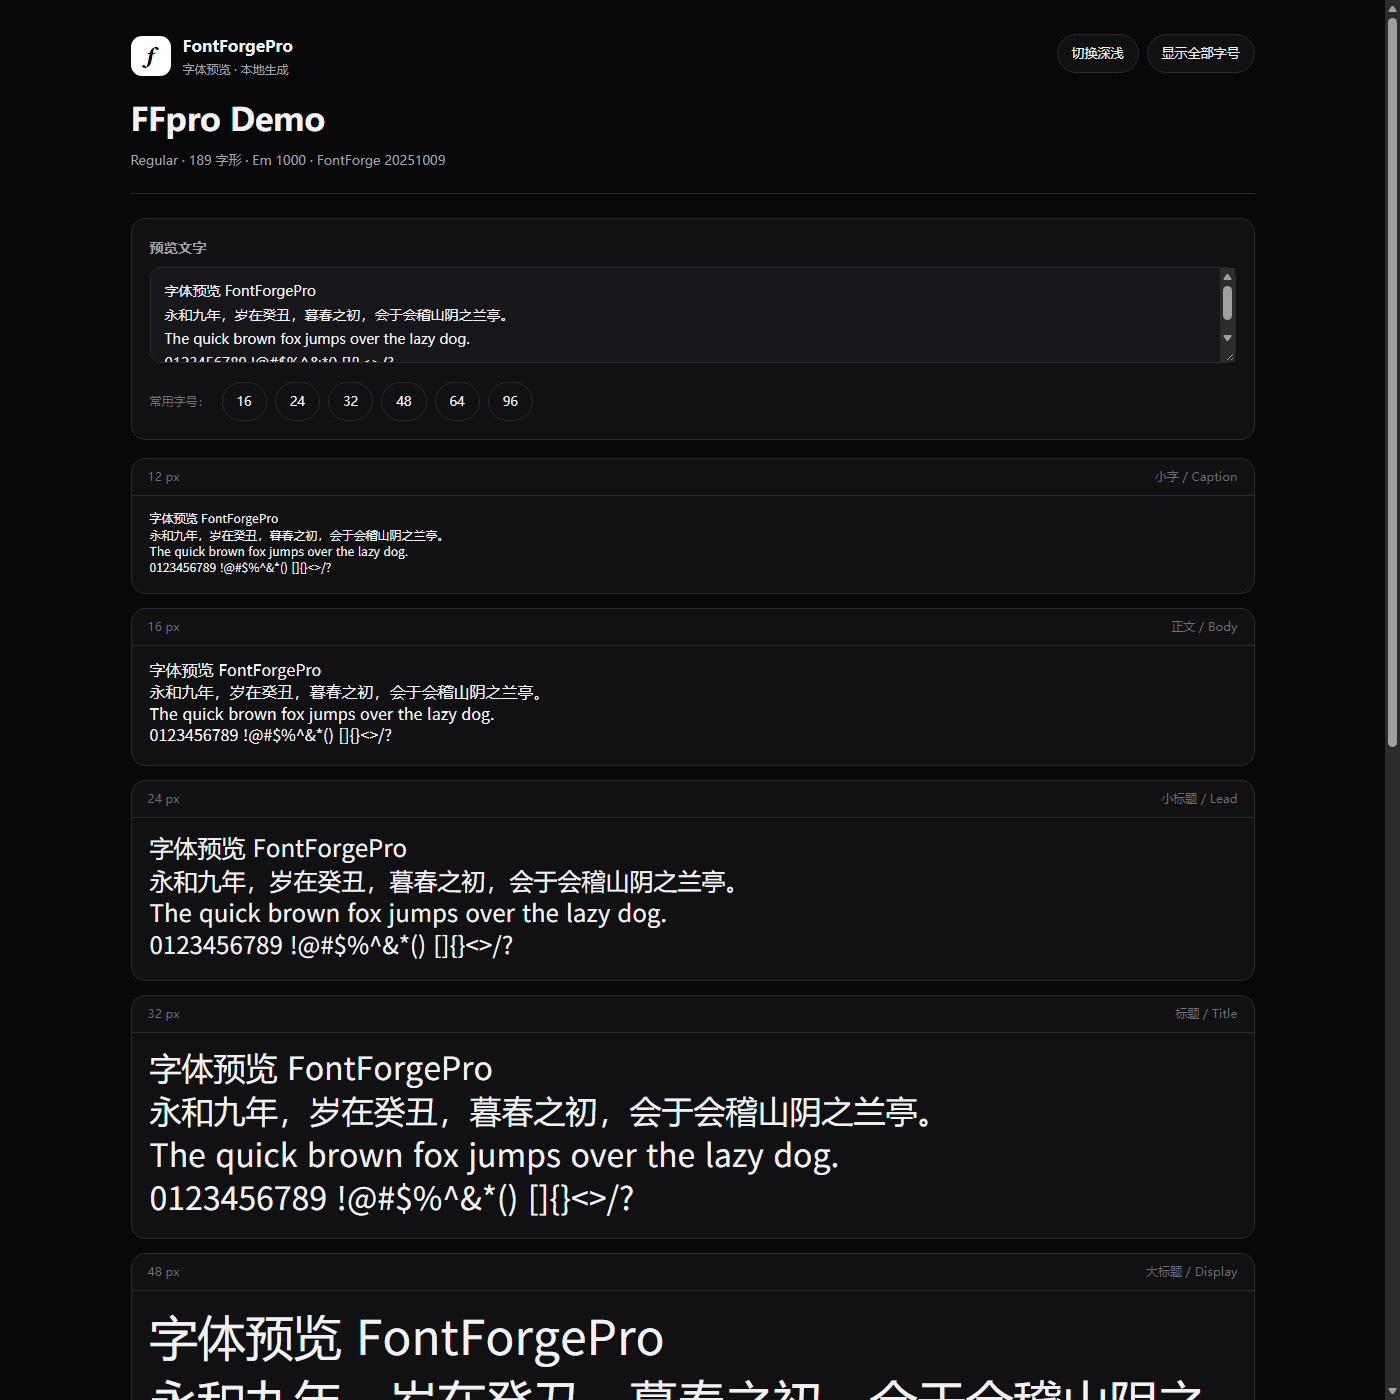
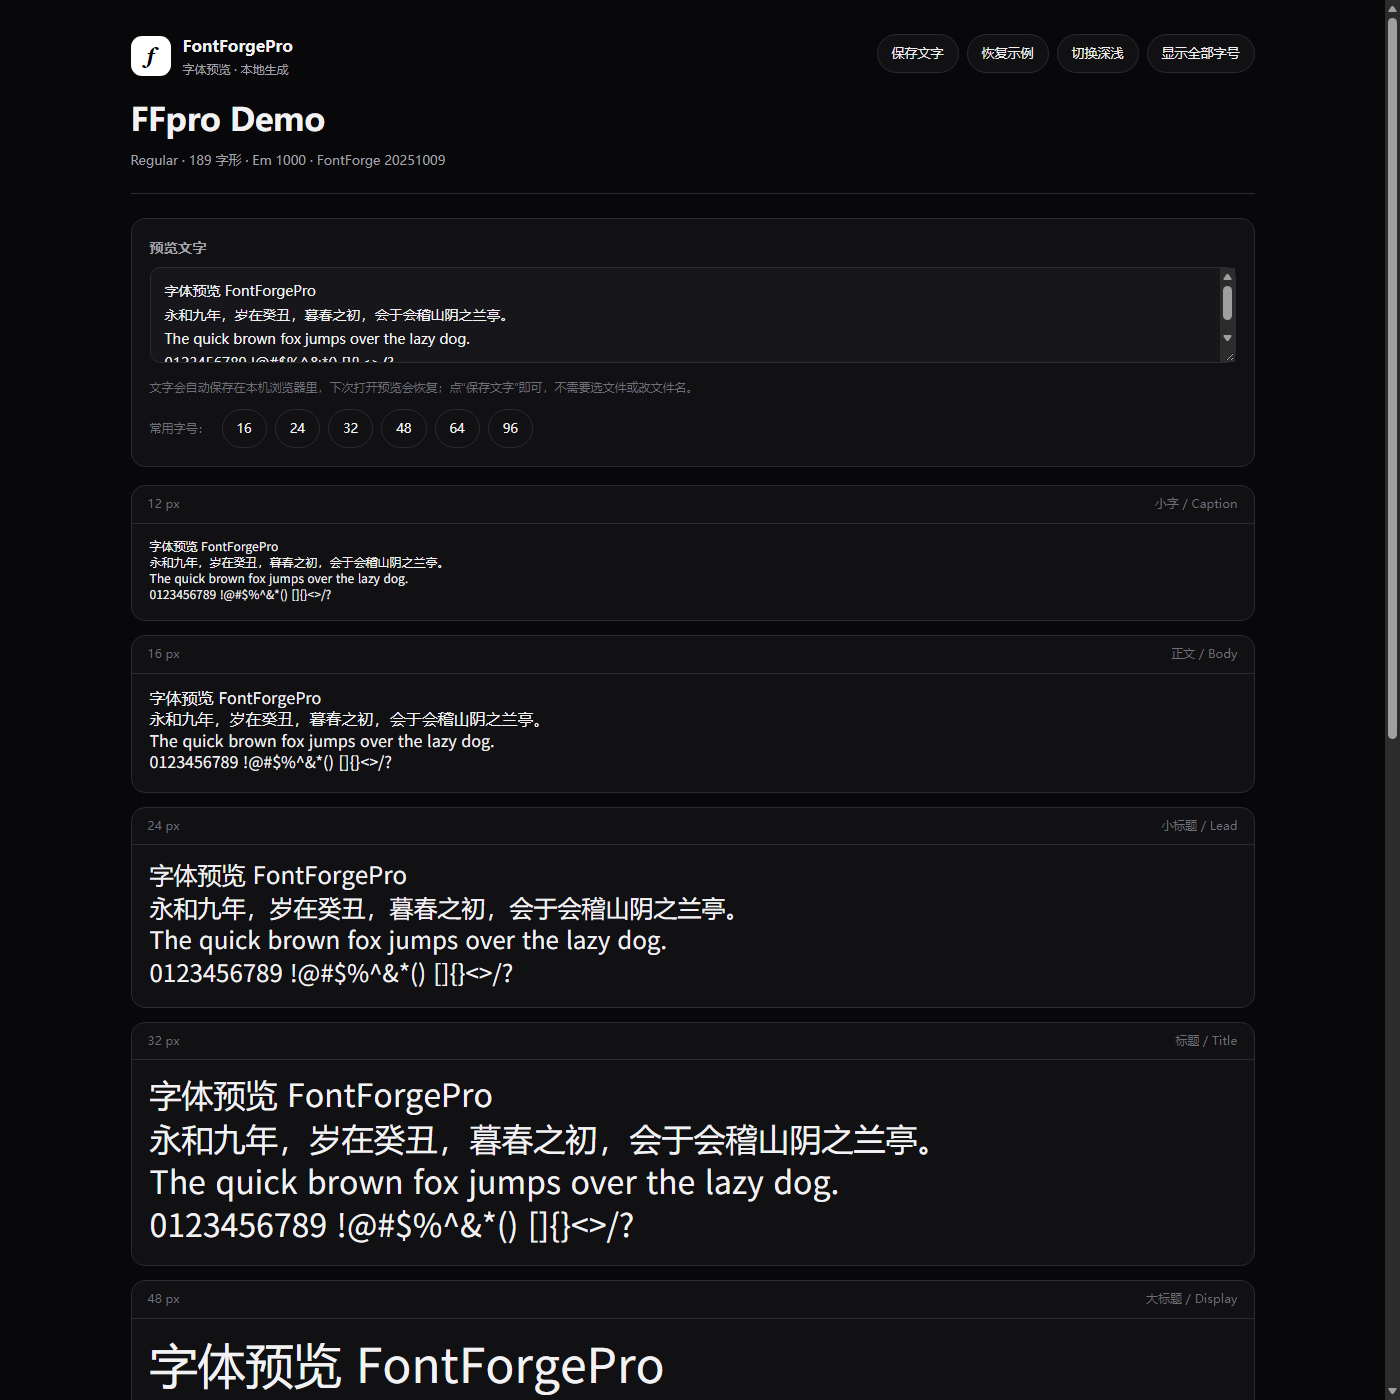
FontForgePro v2.1.2: one-click preview text save
- Preview sample text now auto-saves in browser localStorage and restores
  the next time the preview opens
- Add a one-click "保存文字" button and a "恢复示例" reset button; neither
  opens a filename dialog
- Persist the preview light/dark theme
- Update the Chinese manual, README, and preview screenshots

diff --git a/help/preview-template.html b/help/preview-template.html
@@ -156,6 +156,17 @@
 
   textarea:focus { border-color: var(--muted); }
 
+  .hint {
+    margin-top: 8px;
+    color: var(--dim);
+    font-size: 12px;
+    line-height: 1.6;
+  }
+
+  .hint.saved {
+    color: var(--text);
+  }
+
   .row {
     display: flex;
     gap: 8px;
@@ -250,6 +261,8 @@
       <div class="meta">__FONT_META__</div>
     </div>
     <div class="actions">
+      <button id="save-text" type="button">保存文字</button>
+      <button id="reset-text" type="button">恢复示例</button>
       <button id="theme" type="button">切换深浅</button>
       <button id="toggle-sizes" type="button">显示全部字号</button>
     </div>
@@ -258,6 +271,7 @@
   <section class="panel">
     <h2>预览文字</h2>
     <textarea id="text" spellcheck="false">__SAMPLE_TEXT__</textarea>
+    <div class="hint" id="save-hint">文字会自动保存在本机浏览器里，下次打开预览会恢复；点“保存文字”即可，不需要选文件或改文件名。</div>
     <div class="row">
       <span class="row-label">常用字号：</span>
       <button type="button" data-size="16">16</button>
@@ -318,10 +332,22 @@
 </div>
 
 <script>
-  const sample = __SAMPLE_JSON__;
+  const DEFAULT_SAMPLE = __SAMPLE_JSON__;
+  const TEXT_KEY = "ffpro.preview.text";
+  const THEME_KEY = "ffpro.preview.theme";
   const textarea = document.getElementById("text");
   const samples = Array.from(document.querySelectorAll(".sample"));
   const paragraph = document.getElementById("paragraph");
+  const saveHint = document.getElementById("save-hint");
+  let hintTimer = null;
+
+  function storageGet(key) {
+    try { return localStorage.getItem(key); } catch (error) { return null; }
+  }
+
+  function storageSet(key, value) {
+    try { localStorage.setItem(key, value); return true; } catch (error) { return false; }
+  }
 
   function render() {
     const value = textarea.value || "";
@@ -331,12 +357,49 @@
     paragraph.textContent = value;
   }
 
-  textarea.addEventListener("input", render);
+  function showHint(message) {
+    saveHint.textContent = message;
+    saveHint.classList.add("saved");
+    if (hintTimer) clearTimeout(hintTimer);
+    hintTimer = setTimeout(function () {
+      saveHint.textContent = "文字会自动保存在本机浏览器里，下次打开预览会恢复；点“保存文字”即可，不需要选文件或改文件名。";
+      saveHint.classList.remove("saved");
+    }, 1800);
+  }
+
+  function saveText() {
+    const ok = storageSet(TEXT_KEY, textarea.value);
+    showHint(ok ? "已保存，下次打开预览会自动恢复。" : "浏览器不允许本地保存，请检查隐私设置。");
+  }
+
+  const savedText = storageGet(TEXT_KEY);
+  textarea.value = savedText === null ? DEFAULT_SAMPLE : savedText;
   render();
+
+  textarea.addEventListener("input", function () {
+    render();
+    storageSet(TEXT_KEY, textarea.value);
+  });
+
+  document.getElementById("save-text").addEventListener("click", saveText);
+
+  document.getElementById("reset-text").addEventListener("click", function () {
+    textarea.value = DEFAULT_SAMPLE;
+    render();
+    storageSet(TEXT_KEY, DEFAULT_SAMPLE);
+    showHint("已恢复示例文字。");
+  });
+
+  const savedTheme = storageGet(THEME_KEY);
+  if (savedTheme === "light" || savedTheme === "dark") {
+    document.documentElement.dataset.theme = savedTheme;
+    document.getElementById("theme").textContent = savedTheme === "light" ? "切换深色" : "切换深浅";
+  }
 
   document.getElementById("theme").addEventListener("click", function () {
     const root = document.documentElement;
     root.dataset.theme = root.dataset.theme === "light" ? "dark" : "light";
+    storageSet(THEME_KEY, root.dataset.theme);
     this.textContent = root.dataset.theme === "light" ? "切换深色" : "切换深浅";
   });
 

diff --git a/help/index.html b/help/index.html
@@ -13,7 +13,7 @@
       <div class="brand-mark">f</div>
       <div>
         <div class="brand-title">FontForgePro</div>
-        <div class="brand-sub">本地教程 · v2.1.1</div>
+        <div class="brand-sub">本地教程 · v2.1.2</div>
       </div>
     </div>
     <div class="nav-label">开始</div>
@@ -237,6 +237,7 @@
         <li>FontForgePro 会把当前字体临时导出为 WOFF2（如果失败会自动退回 TTF/OTF），写到一个临时目录，不会修改你的工程文件。</li>
         <li>浏览器会打开预览页。你可以在文本框里输入任意示例文字，页面会同时显示 12、16、24、32、48、64、96、144 px 八档字号，也可以切换深色/浅色。</li>
         <li>预览页底部的“段落排版”会显示 18px、1.85 行高的正文效果，适合检查中文长文的阅读感。</li>
+        <li><strong>文字自动保存。</strong>输入的内容会保存在本机浏览器里，下次打开预览会自动恢复；点右上角“保存文字”即可立即保存，<strong>不需要选择文件或改文件名</strong>。想恢复默认示例就点“恢复示例”。</li>
       </ol>
       <div class="note">
         <p>预览用的是导出后的字体，所以看到的效果和安装/导出后的效果一致；如果字体缺少某些字符，浏览器会用系统字体回退显示。大字体（例如几万个字形的 CJK 字体）生成 WOFF2 时会多等一会儿，生成完成后浏览器才会打开。</p>
@@ -335,7 +336,7 @@
     </section>
 
     <footer class="footer">
-      FontForgePro v2.1.1 · 基于 FontForge 20251009 · GPL-3.0 · 本地教程，无需联网<br>
+      FontForgePro v2.1.2 · 基于 FontForge 20251009 · GPL-3.0 · 本地教程，无需联网<br>
       <a href="official.html">FontForge 官方手册（离线镜像）</a>
     </footer>
   </main>

diff --git a/help/about.html b/help/about.html
@@ -13,7 +13,7 @@
       <div class="brand-mark">f</div>
       <div>
         <div class="brand-title">FontForgePro</div>
-        <div class="brand-sub">关于 · v2.1.1</div>
+        <div class="brand-sub">关于 · v2.1.2</div>
       </div>
     </div>
     <nav class="nav">
@@ -47,7 +47,7 @@
       <h2>版本</h2>
       <table>
         <tbody>
-          <tr><th>FontForgePro</th><td>2.1.1</td></tr>
+          <tr><th>FontForgePro</th><td>2.1.2</td></tr>
           <tr><th>FontForge 内核</th><td>20251009（2025-10-09 构建）</td></tr>
           <tr><th>Python</th><td>3.12（随 FontForge 提供）</td></tr>
           <tr><th>平台</th><td>Windows 10 / 11 64 位</td></tr>
@@ -69,7 +69,7 @@
         </div>
         <div class="card">
           <h3>字体预览</h3>
-          <p>临时导出 WOFF2，在浏览器里用可编辑文字查看 12–144 px 八档字号、段落排版和深浅色效果。</p>
+          <p>临时导出 WOFF2，在浏览器里用可编辑文字查看 12–144 px 八档字号、段落排版和深浅色效果；文字自动保存，一键保存不需要改文件名。</p>
         </div>
         <div class="card">
           <h3>完整官方手册</h3>
@@ -108,7 +108,7 @@
     </section>
 
     <footer class="footer">
-      FontForgePro v2.1.1 · 基于 FontForge 20251009 · GPL-3.0<br>
+      FontForgePro v2.1.2 · 基于 FontForge 20251009 · GPL-3.0<br>
       <a href="index.html">本地教程</a>
     </footer>
   </main>

diff --git a/src/Launcher.cs b/src/Launcher.cs
@@ -15,8 +15,8 @@ using System.Windows.Forms;
 [assembly: AssemblyProduct("FontForgePro")]
 [assembly: AssemblyCompany("FontForgePro")]
 [assembly: AssemblyCopyright("GPL-3.0-or-later")]
-[assembly: AssemblyVersion("2.1.1.0")]
-[assembly: AssemblyFileVersion("2.1.1.0")]
+[assembly: AssemblyVersion("2.1.2.0")]
+[assembly: AssemblyFileVersion("2.1.2.0")]
 
 namespace FontForgePro
 {
@@ -158,7 +158,7 @@ namespace FontForgePro
 
             env["APPDATA"] = appData;
             env["FFPRO_HOME"] = _home;
-            env["FFPRO_VERSION"] = "2.1.1";
+            env["FFPRO_VERSION"] = "2.1.2";
             env["PYTHONIOENCODING"] = "utf-8";
             env["PYTHONUTF8"] = "1";
             env["LANG"] = locale + ".UTF-8";

diff --git a/plugins/ffpro_tools.py b/plugins/ffpro_tools.py
@@ -23,7 +23,7 @@ import webbrowser
 import fontforge
 import psMat
 
-PLUGIN_VERSION = "2.1.1"
+PLUGIN_VERSION = "2.1.2"
 SUBMENU = ("FFpro 工具", "FFpro Tools", "FFpro_Tools")
 
 BASIC_CODEPOINTS = (

diff --git a/README.md b/README.md
@@ -1,4 +1,4 @@
-# FontForgePro (FFpro) 2.1.1
+# FontForgePro (FFpro) 2.1.2
 
 A Windows font editor built on the **native FontForge 20251009** application.
 FontForgePro keeps all of FontForge's professional features and adds a dark
@@ -63,7 +63,9 @@ Found under **工具 → FFpro 工具** (Tools → FFpro Tools):
 - UI language follows the Windows system language through FontForge's gettext catalogs
 - CJK-capable UI font fallback (Microsoft YaHei UI, Yu Gothic UI, Malgun Gothic)
 - Font preview: temporary WOFF2 export opened in a local page with editable text,
-  eight sizes (12–144 px), paragraph specimen, and light/dark modes
+  eight sizes (12–144 px), paragraph specimen, and light/dark modes. Preview
+  text auto-saves in the browser and has a one-click "保存文字" button — no
+  filename dialog.
 - Offline mirror of the official FontForge 20251009 documentation (about 700
   files, 9 MB) with a Chinese navigation hub and working local search
 - Separate settings directory (`%APPDATA%\FontForgePro`) so an existing
@@ -96,8 +98,8 @@ powershell -NoProfile -ExecutionPolicy Bypass -File build.ps1
 Output:
 
 - `dist\FontForgePro\` — runnable application directory
-- `release\FontForgePro-v2.1.1-win64.zip` — release archive
-- `release\FontForgePro-v2.1.1-win64.zip.sha256`
+- `release\FontForgePro-v2.1.2-win64.zip` — release archive
+- `release\FontForgePro-v2.1.2-win64.zip.sha256`
 
 Install for the current user:
 
@@ -137,7 +139,7 @@ package is placed on `sys.path`.
 ## Relationship to the previous FFpro
 
 The earlier `v1.0.0` release was an Electron application built on Glyphr Studio.
-It remains available from the repository's release history. Version 2.1.1 is a
+It remains available from the repository's release history. Version 2.1.2 is a
 different foundation: the native FontForge application. Font files and `.sfd`
 projects are compatible with FontForge.
 
